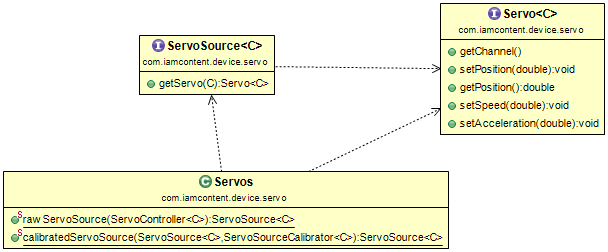
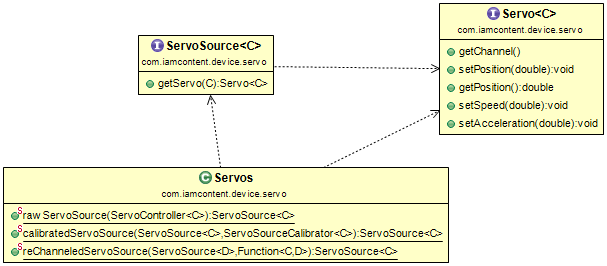
Add functionality to wrap servos up with a new channel id that can be configured in JSON.

Changed region(s): [[0.0, 0.5, 0.7414, 1.0], [0.2076, 0.0, 1.0, 0.5556], [0.6524, 0.4722, 0.682, 0.5]]

diff --git a/public-java/iamcontent-io/src/main/java/com/iamcontent/io/gson/JsonBasedMapReader.java b/public-java/iamcontent-io/src/main/java/com/iamcontent/io/gson/JsonBasedMapReader.java
@@ -1,0 +1,59 @@
+/**
+  IAmContent Public Libraries.
+  Copyright (C) 2015 Greg Elderfield
+  @author Greg Elderfield, support@jarchitect.co.uk
+ 
+  This program is free software; you can redistribute it and/or modify it under the terms of the
+  GNU General Public License as published by the Free Software Foundation; either version 2 of 
+  the License, or (at your option) any later version.
+
+  This program is distributed in the hope that it will be useful, but WITHOUT ANY WARRANTY;
+  without even the implied warranty of MERCHANTABILITY or FITNESS FOR A PARTICULAR PURPOSE.
+  See the GNU General Public License for more details.
+
+  You should have received a copy of the GNU General Public License along with this program;
+  if not, write to the Free Software Foundation, Inc., 
+  51 Franklin Street, Fifth Floor, Boston, MA 02110-1301 USA.
+ */
+package com.iamcontent.io.gson;
+
+import static com.iamcontent.core.gson.GsonUtils.JSON_FILE_EXTENSION;
+
+import java.io.Reader;
+import java.lang.reflect.Type;
+import java.util.Map;
+
+import com.google.gson.Gson;
+import com.iamcontent.core.LangUtils;
+import com.iamcontent.io.util.AbstractResourceReader;
+
+/**
+ * Creates {@link Map}s according to JSON file resources.
+ * @author Greg Elderfield
+ */
+public class JsonBasedMapReader<K, V> extends AbstractResourceReader<Map<K, V>> {
+
+	private final Type mapType;
+	
+	public JsonBasedMapReader(String folder, String name, Class<K> keyClass, Class<V> valueClass) {
+		super(folder, name, JSON_FILE_EXTENSION);
+		this.mapType = LangUtils.mapType(keyClass, valueClass);
+	}
+
+	public static <F, T> Map<F, T> map(String folder, String name, Class<F> keyClass, Class<T> valueClass) {
+		return newInstance(folder, name, keyClass, valueClass).read();
+	}
+
+	@Override
+	protected Map<K, V> readFrom(Reader r) {
+		return gson().fromJson(r, mapType);
+	}
+
+	private static <F, T> JsonBasedMapReader<F, T> newInstance(String folder, String name, Class<F> keyClass, Class<T> valueClass) {
+		return new JsonBasedMapReader<F, T>(folder, name, keyClass, valueClass);
+	}
+	
+	private static Gson gson() {
+		return new Gson();
+	}
+}

diff --git a/public-java/devices/iamcontent-servo-support/src/main/java/com/iamcontent/device/servo/rechannel/ReChanneledServo.java b/public-java/devices/iamcontent-servo-support/src/main/java/com/iamcontent/device/servo/rechannel/ReChanneledServo.java
@@ -1,0 +1,62 @@
+/**
+  IAmContent Public Libraries.
+  Copyright (C) 2015 Greg Elderfield
+  @author Greg Elderfield, iamcontent@jarchitect.co.uk
+ 
+  This program is free software; you can redistribute it and/or modify it under the terms of the
+  GNU General Public License as published by the Free Software Foundation; either version 2 of 
+  the License, or (at your option) any later version.
+
+  This program is distributed in the hope that it will be useful, but WITHOUT ANY WARRANTY;
+  without even the implied warranty of MERCHANTABILITY or FITNESS FOR A PARTICULAR PURPOSE.
+  See the GNU General Public License for more details.
+
+  You should have received a copy of the GNU General Public License along with this program;
+  if not, write to the Free Software Foundation, Inc., 
+  51 Franklin Street, Fifth Floor, Boston, MA 02110-1301 USA.
+ */
+package com.iamcontent.device.servo.rechannel;
+
+import com.iamcontent.device.servo.Servo;
+
+/**
+ * A {@link Servo} that invokes a delegate {@link Servo} but has its own channel id, which may be different from its delegate
+ * and might not even have the same channel class.
+ * @author Greg Elderfield
+ * 
+ * @param C The type used to identify the channel of a {@link ReChanneledServo}. 
+ */
+public class ReChanneledServo<C> implements Servo<C> {
+	private final Servo<?> delegateServo;
+	private final C channel;
+	
+	public ReChanneledServo(Servo<?> delegateServo, C channel) {
+		this.delegateServo = delegateServo;
+		this.channel = channel;
+	}
+
+	@Override
+	public C getChannel() {
+		return channel;
+	}
+
+	@Override
+	public void setPosition(double position) {
+		delegateServo.setPosition(position);
+	}
+
+	@Override
+	public double getPosition() {
+		return delegateServo.getPosition();
+	}
+
+	@Override
+	public void setSpeed(double speed) {
+		delegateServo.setSpeed(speed);
+	}
+
+	@Override
+	public void setAcceleration(double acceleration) {
+		delegateServo.setAcceleration(acceleration);
+	}
+}

diff --git a/public-java/iamcontent-io/src/test/java/com/iamcontent/io/gson/JsonBasedMapReaderTest.java b/public-java/iamcontent-io/src/test/java/com/iamcontent/io/gson/JsonBasedMapReaderTest.java
@@ -1,0 +1,51 @@
+package com.iamcontent.io.gson;
+
+import static org.junit.Assert.assertEquals;
+
+import java.util.Map;
+
+import org.junit.Test;
+
+public class JsonBasedMapReaderTest {
+	
+	private final static String FOLDER = "json/";
+
+	private enum TestEnum {ONE, TWO, SEVEN};
+	
+	@Test
+	public void testStringToIntegerMap() {
+		final Map<String, Integer> actual = JsonBasedMapReader.map(FOLDER, "string-to-integer-map", String.class, Integer.class);
+		assertEquals(3, actual.size());
+		assertEquals(1, actual.get("ONE").intValue());
+		assertEquals(2, actual.get("TWO").intValue());
+		assertEquals(7, actual.get("SEVEN").intValue());
+	}
+	
+	@Test
+	public void testEnumToIntegerMap() {
+		final Map<TestEnum, Integer> actual = JsonBasedMapReader.map(FOLDER, "string-to-integer-map", TestEnum.class, Integer.class);
+		assertEquals(3, actual.size());
+		assertEquals(1, actual.get(TestEnum.ONE).intValue());
+		assertEquals(2, actual.get(TestEnum.TWO).intValue());
+		assertEquals(7, actual.get(TestEnum.SEVEN).intValue());
+	}
+
+	@Test
+	public void testIntegerToStringMap() {
+		final Map<Integer, String> actual = JsonBasedMapReader.map(FOLDER, "integer-to-string-map", Integer.class, String.class);
+		assertEquals(3, actual.size());
+		assertEquals("ONE", actual.get(1));
+		assertEquals("TWO", actual.get(2));
+		assertEquals("SEVEN", actual.get(7));
+	}
+
+	@Test
+	public void testIntegerToEnumMap() {
+		final Map<Integer, TestEnum> actual = JsonBasedMapReader.map(FOLDER, "integer-to-string-map", Integer.class, TestEnum.class);
+		assertEquals(3, actual.size());
+		assertEquals(TestEnum.ONE, actual.get(1));
+		assertEquals(TestEnum.TWO, actual.get(2));
+		assertEquals(TestEnum.SEVEN, actual.get(7));
+	}
+
+}

diff --git a/public-java/devices/iamcontent-servo-support/src/main/java/com/iamcontent/device/servo/rechannel/ChannelTranslationFunctionReader.java b/public-java/devices/iamcontent-servo-support/src/main/java/com/iamcontent/device/servo/rechannel/ChannelTranslationFunctionReader.java
@@ -1,0 +1,40 @@
+/**
+  IAmContent Public Libraries.
+  Copyright (C) 2015 Greg Elderfield
+  @author Greg Elderfield, support@jarchitect.co.uk
+ 
+  This program is free software; you can redistribute it and/or modify it under the terms of the
+  GNU General Public License as published by the Free Software Foundation; either version 2 of 
+  the License, or (at your option) any later version.
+
+  This program is distributed in the hope that it will be useful, but WITHOUT ANY WARRANTY;
+  without even the implied warranty of MERCHANTABILITY or FITNESS FOR A PARTICULAR PURPOSE.
+  See the GNU General Public License for more details.
+
+  You should have received a copy of the GNU General Public License along with this program;
+  if not, write to the Free Software Foundation, Inc., 
+  51 Franklin Street, Fifth Floor, Boston, MA 02110-1301 USA.
+ */
+package com.iamcontent.device.servo.rechannel;
+
+
+import java.util.Map;
+
+import com.google.common.base.Function;
+import com.google.common.base.Functions;
+import com.iamcontent.device.servo.Servo;
+import com.iamcontent.io.gson.JsonBasedMapReader;
+
+/**
+ * Creates Functions to translate {@link Servo} channel identifiers according to JSON file resources.
+ * @author Greg Elderfield
+ */
+public class ChannelTranslationFunctionReader<F, T> {
+
+	private static final String FOLDER = "servo/channels/";
+
+	public static <F, T> Function<F, T> function(String name, Class<F> fromChannelClass, Class<T> toChannelClass) {
+		final Map<F, T> map = JsonBasedMapReader.map(FOLDER, name, fromChannelClass, toChannelClass);
+		return Functions.forMap(map);
+	}
+}

diff --git a/public-java/devices/iamcontent-servo-support/src/main/java/com/iamcontent/device/servo/Servos.java b/public-java/devices/iamcontent-servo-support/src/main/java/com/iamcontent/device/servo/Servos.java
@@ -17,11 +17,13 @@
  */
 package com.iamcontent.device.servo;
 
+import com.google.common.base.Function;
 import com.iamcontent.device.servo.calibrate.CalibratedServo;
 import com.iamcontent.device.servo.calibrate.ServoCalibrator;
 import com.iamcontent.device.servo.calibrate.ServoSourceCalibrator;
 import com.iamcontent.device.servo.raw.RawServo;
 import com.iamcontent.device.servo.raw.ServoController;
+import com.iamcontent.device.servo.rechannel.ReChanneledServo;
 
 /**
  * Methods to facilitate {@link Servo} usage.
@@ -51,6 +53,21 @@ public final class Servos {
 				final Servo<C> delegateServo = delegate.getServo(channel);
 				final ServoCalibrator servoCalibrator = calibrator.getServoCalibrator(channel);
 				return new CalibratedServo<C>(delegateServo, servoCalibrator);
+			}
+		};
+	}
+	
+	/**
+	 * @return A {@link ServoSource} that creates {@link ReChanneledServo}s from a delegate {@link ServoSource}, selecting {@link Servo}s
+	 * from the latter according to the given channelTranslation function.
+	 */
+	public static <C, D> ServoSource<C> reChanneledServoSource(final ServoSource<D> delegate, final Function<C, D> channelTranslation) {
+		return new ServoSource<C>() {
+			@Override
+			public Servo<C> getServo(C channel) {
+				final D delegateChannel = channelTranslation.apply(channel);
+				final Servo<D> delegateServo = delegate.getServo(delegateChannel);
+				return new ReChanneledServo<C>(delegateServo, channel);
 			}
 		};
 	}

diff --git a/public-java/devices/iamcontent-servo-support/src/main/java/com/iamcontent/device/servo/rechannel/ChannelTranslations.java b/public-java/devices/iamcontent-servo-support/src/main/java/com/iamcontent/device/servo/rechannel/ChannelTranslations.java
@@ -1,0 +1,35 @@
+/**
+  IAmContent Public Libraries.
+  Copyright (C) 2015 Greg Elderfield
+  @author Greg Elderfield, support@jarchitect.co.uk
+ 
+  This program is free software; you can redistribute it and/or modify it under the terms of the
+  GNU General Public License as published by the Free Software Foundation; either version 2 of 
+  the License, or (at your option) any later version.
+
+  This program is distributed in the hope that it will be useful, but WITHOUT ANY WARRANTY;
+  without even the implied warranty of MERCHANTABILITY or FITNESS FOR A PARTICULAR PURPOSE.
+  See the GNU General Public License for more details.
+
+  You should have received a copy of the GNU General Public License along with this program;
+  if not, write to the Free Software Foundation, Inc., 
+  51 Franklin Street, Fifth Floor, Boston, MA 02110-1301 USA.
+ */
+package com.iamcontent.device.servo.rechannel;
+
+import com.google.common.base.Function;
+import com.iamcontent.device.servo.Servo;
+
+/**
+ * A source of Functions to translate {@link Servo} channel identifiers.
+ * @author Greg Elderfield
+ */
+public class ChannelTranslations {
+	
+	public static <F, T> Function<F, T> function(String translationName, Class<F> fromChannelClass, Class<T> toChannelClass) {
+		return ChannelTranslationFunctionReader.function(translationName, fromChannelClass, toChannelClass);
+	}
+	
+	private ChannelTranslations() {
+	}
+}
